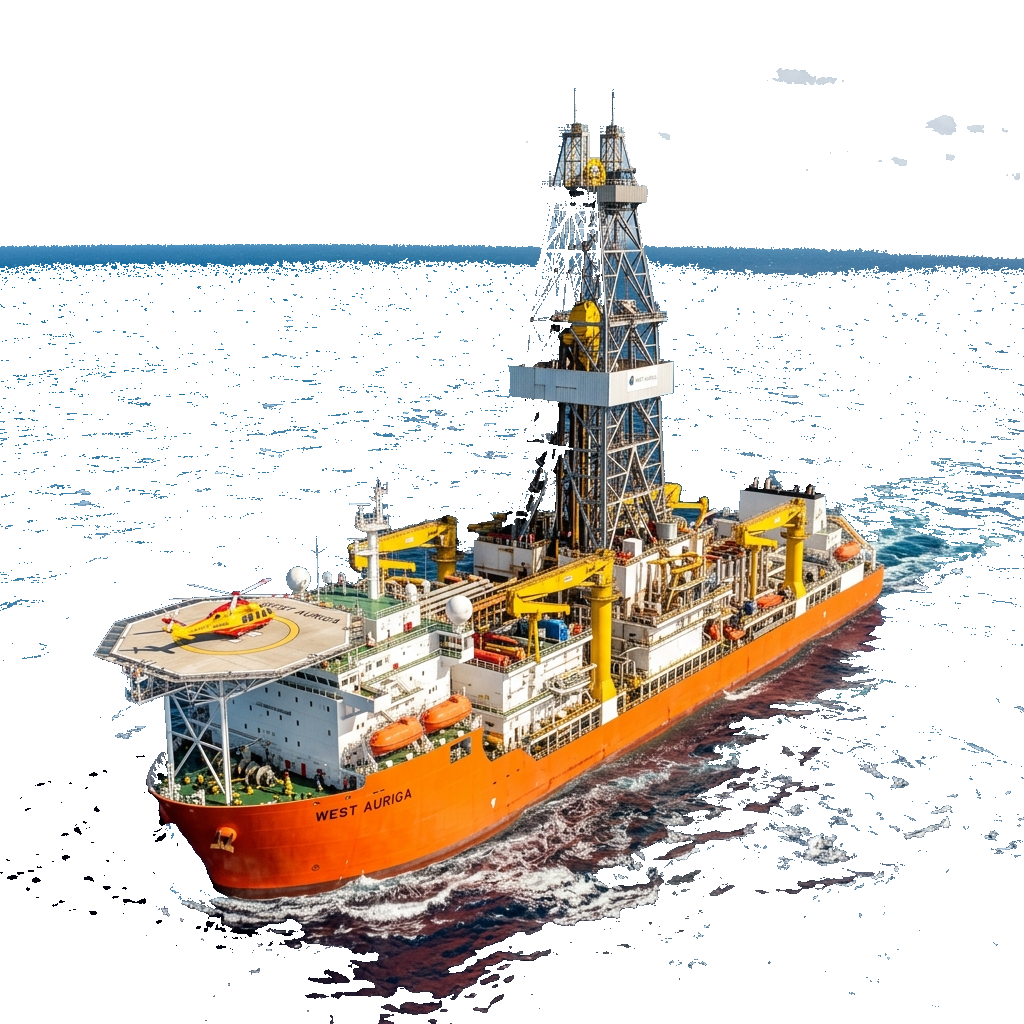
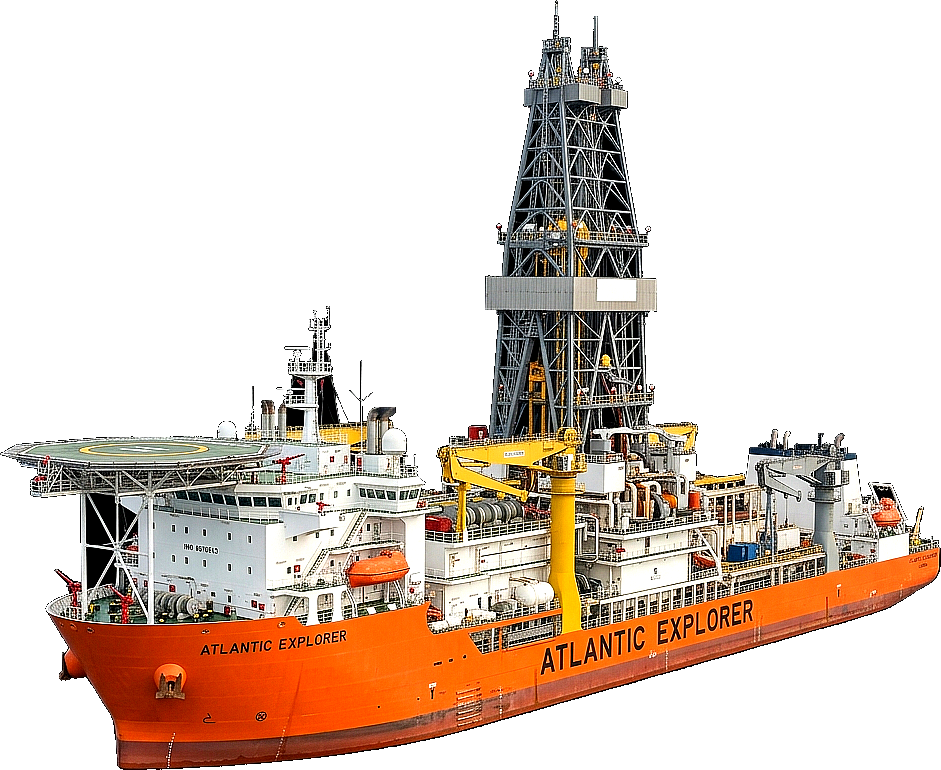
thgrsd

diff --git a/style.css b/style.css
@@ -84,7 +84,7 @@ button, input {
    the card and ship image across all environments.
    ══════════════════════════════════════════════ */
 #landing-screen {
-  background-color: var(--primary-teal);
+  background-color: var(--primary-teal-dark);
   background-image:
     radial-gradient(ellipse 70% 80% at 75% 55%, rgba(53, 107, 127, 0.45) 0%, transparent 70%),
     radial-gradient(ellipse 40% 40% at 80% 85%, rgba(25, 51, 61, 0.55) 0%, transparent 60%);
@@ -100,12 +100,12 @@ button, input {
   content: '';
   position: absolute;
   bottom: 0;
-  right: 0;
-  width: 65%;
+  left: 0;
+  width: 100%;
   height: 35%;
-  background: linear-gradient(to top, rgba(19, 42, 50, 0.45) 0%, transparent 100%);
+  background: linear-gradient(to top, var(--primary-teal-dark) 0%, rgba(25, 51, 61, 0) 100%);
   pointer-events: none;
-  z-index: 0;
+  z-index: 6;
 }
 
 /* Dot pattern — fills left portion of landing background */
@@ -187,29 +187,40 @@ button, input {
 
 /* ── RIGHT: Ship Image (flex child, fills remaining space) ── */
 .landing-ship-overlay {
-  /* Flex item — NOT absolutely positioned */
-  flex: 1 1 0;
-  min-width: 0;
+  position: absolute;
+  bottom: 0;
+  left: clamp(180px, calc(44vw - 160px), 400px); /* Premium overlapping alignment with the left card */
+  width: auto;
   height: 100%;
-  display: flex;
-  align-items: center;
-  justify-content: center;
-  position: relative;
-  overflow: visible;
-  padding: 15px 20px 15px 10px;
-  z-index: 5;
+  z-index: 15; /* Rendered on top of the card (z-index 10) */
   pointer-events: none;
+  display: flex;
+  align-items: flex-end;
+  justify-content: flex-start;
+  overflow: visible;
 }
 
 .landing-ship-img {
-  width: 100%;
-  max-width: 720px;
-  height: 100%;
-  max-height: 95%;
+  height: 135%; /* Upscaled to fill height, clip top/bottom, and overlap left card */
+  width: auto;
+  max-width: none;
+  max-height: none;
   object-fit: contain;
-  object-position: center center;
+  object-position: bottom left;
   display: block;
-  filter: drop-shadow(-18px 10px 30px rgba(0, 0, 0, 0.5));
+  filter: drop-shadow(-20px 12px 30px rgba(0, 0, 0, 0.55));
+  animation: shipSlideIn 1.1s cubic-bezier(0.16, 1, 0.3, 1) both;
+}
+
+@keyframes shipSlideIn {
+  0% {
+    transform: translateX(120px) scale(0.95);
+    opacity: 0;
+  }
+  100% {
+    transform: translateX(0) scale(1);
+    opacity: 1;
+  }
 }
 
 /* Manshu Logo */
@@ -345,13 +356,30 @@ button, input {
     100% { transform: translateY(0); opacity: 1; }
   }
   .landing-ship-overlay {
+    position: relative; /* Reset absolute layout for mobile/tablet */
+    left: auto;
+    bottom: auto;
+    width: 100%;
     flex: 1 0 auto;
     min-height: 260px;
     max-height: 42vh;
     padding: 10px 20px 20px;
+    z-index: 5;
+    display: flex;
+    align-items: center;
+    justify-content: center;
   }
   .landing-ship-img {
+    position: relative;
+    bottom: auto;
+    right: auto;
+    width: 100%;
+    height: 100%;
     max-height: 100%;
+    max-width: 720px;
+    object-fit: contain;
+    object-position: center center;
+    animation: none; /* Disable desktop animation for mobile */
   }
 }
 
@@ -732,7 +760,7 @@ button, input {
 /* Header bar */
 .player-header {
   position: relative;
-  background-color: var(--primary-teal);
+  background-color: var(--primary-teal-dark);
   color: var(--text-light);
   display: flex;
   align-items: center;
@@ -754,7 +782,7 @@ button, input {
   right: 0;
   width: 45%;
   height: 100%;
-  background-color: var(--primary-teal-bright);
+  background-color: var(--primary-teal);
   background-image: radial-gradient(rgba(255, 255, 255, 0.15) 1.5px, transparent 1.5px);
   background-size: 16px 16px;
   border-top-left-radius: 100% 100%;

diff --git a/index.html b/index.html
@@ -5,7 +5,7 @@
   <meta name="viewport" content="width=device-width, initial-scale=1.0">
   <title>Manshu Learning - Change Advice Notice Process Training</title>
   <meta name="description" content="Interactive e-learning course for the Manshu Learning Change Advice Notice (CAN) Process in the Atlantic Region operations.">
-  <link rel="stylesheet" href="style.css">
+  <link rel="stylesheet" href="style.css?v=1.2">
 </head>
 <body>
 
@@ -143,7 +143,7 @@
       <div id="exit-modal-container"></div>
       
     </div> <!-- end dashboard screen -->
-
+    
   </div>
 
   <!-- Toast Notification Container -->

diff --git a/components/landing.html b/components/landing.html
@@ -32,5 +32,5 @@
 </div>
 
 <div class="landing-ship-overlay">
-  <img class="landing-ship-img" src="assets/drillship_processed.png" alt="Offshore drillship cutout overlapping the card">
+  <img class="landing-ship-img" src="assets/drillship_processed.png?v=1.2" alt="Offshore drillship cutout overlapping the card">
 </div>